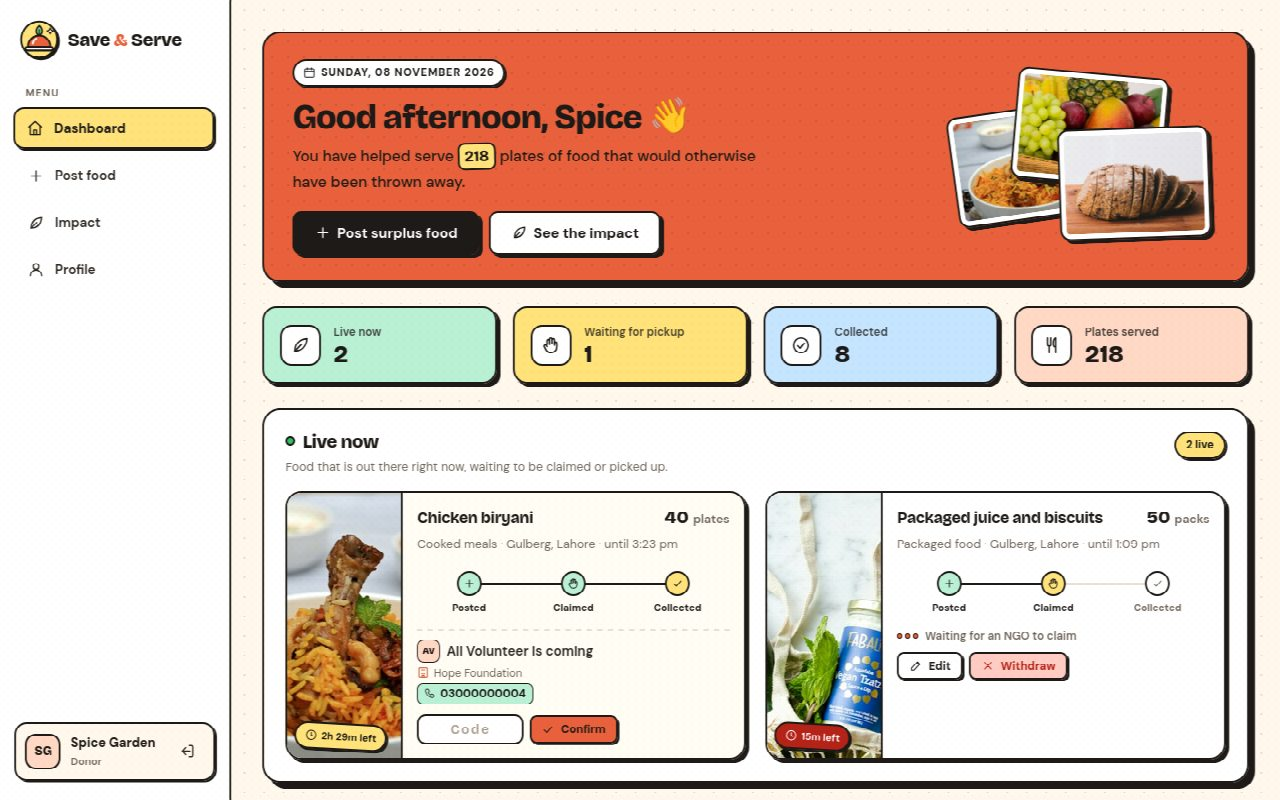
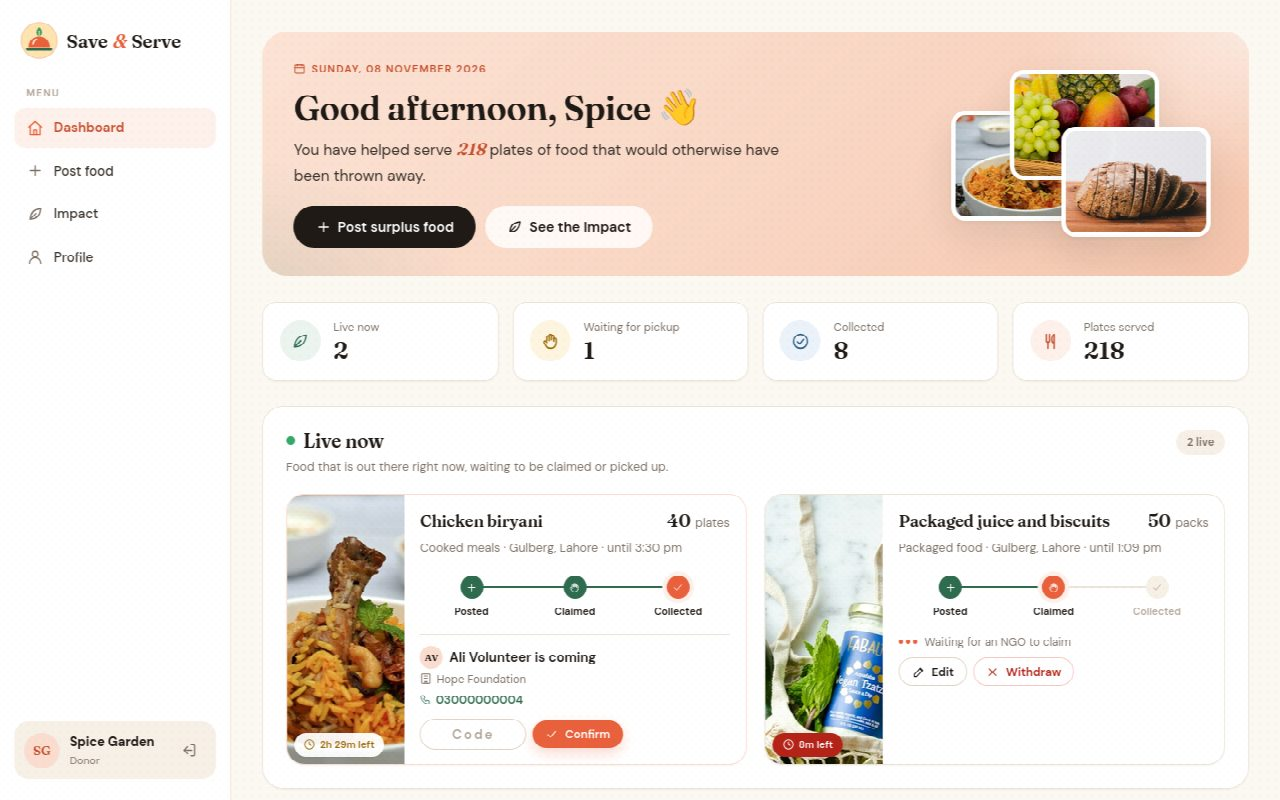
Refresh README screenshots and font credit for the new style

diff --git a/README.md b/README.md
@@ -168,7 +168,7 @@ Bundled in `assets/js/vendor/` so everything works offline:
 - [Chart.js](https://www.chartjs.org) 4.4.1, MIT License
 - [qrcode-generator](https://github.com/kazuhikoarase/qrcode-generator) 1.4.4 by Kazuhiko Arase, MIT License
 
-Fonts: Bricolage Grotesque and DM Sans from Google Fonts (SIL Open Font License).
+Fonts: Fraunces and DM Sans from Google Fonts (SIL Open Font License).
 
 ## Image credits
 The logo (`logo.svg`, `logo-full.svg`) was made for this project. Photos in `assets/img/` are from [Unsplash](https://unsplash.com) and used under the
